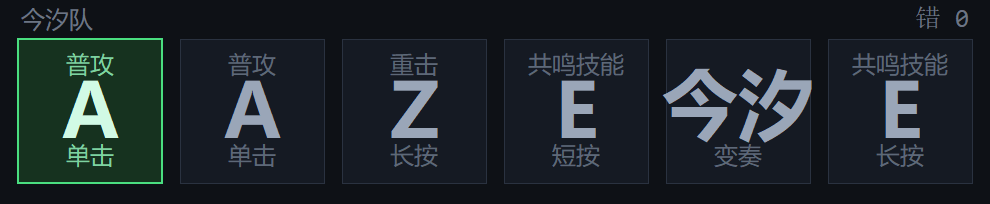
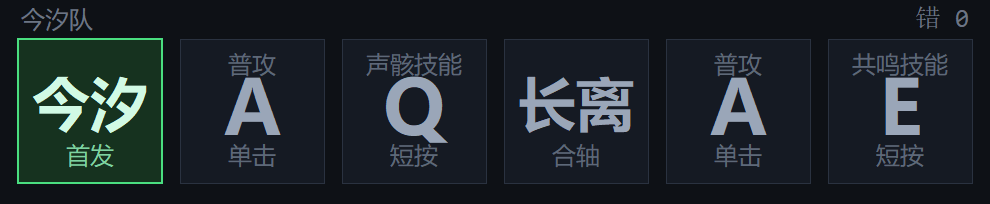
README：更新主界面/编辑器截图，补充节点编辑与首发说明

diff --git a/README.md b/README.md
@@ -72,9 +72,29 @@ wuthering-combo-helper-v1.0.0-win64.zip   ≈ 11 MB
 
 - 一支队伍一个方案，可新建 / 改名 / 删除
 - 每个方案单独配 1/2/3 号位的角色名，切人时直接显示角色名
-- 半自动录入：点按键 → 选短按/长按（或变奏/合轴）→ 选轴 → 确认添加
+- 半自动录入：点按键 → 选短按/长按（或变奏/合轴/首发）→ 选轴 → 确认添加
+- 两条轴各预留三排高度，常见长度的连招不用滚动就能看全
 
 ![编辑器](docs/editor.png)
+
+### 节点直接编辑
+
+轴里的每个方块都能点：
+
+```
+单击节点  →  修改这个节点 / 删除这一个 / 在后面插入 / 取消
+```
+
+- **修改**：技能在 短按↔长按 之间换，切人在 变奏/合轴 之间换
+- **删除**：删掉这一个，后面自动前移
+- **在后面插入**：选好按键点「确认添加」就插在那个位置（预览行会显示插入点，可「取消插入」）
+- 「清空」有二次确认，防误触
+- 可编辑节点是白色边框，每条轴最后一个节点是绿色边框（不可点 = 后面没有可插的位置）
+
+### 首发
+
+`1/2/3` 除了 变奏 / 合轴，还有 **首发**——开场首发的切人。
+它只允许放在**启动轴第一个节点**，放别处会被拒绝并提示。
 
 ### 方案分享
 
